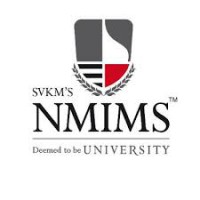
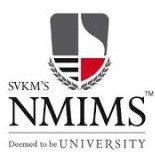
Fixed iframe and margin changes and added spacing for Youtube Live Video

diff --git a/index.html b/index.html
@@ -192,19 +192,35 @@
 
     <!-- End Of About Us Section -->
 
+
+
+
+    <!-- Live Video Section-->
+
+    <div class="container model">
+        <div class="sketchfab-embed-wrapper">
+            <iframe class="responsive-iframe-youtube" src="" title="YouTube video player" frameborder="0" allow="accelerometer; autoplay; clipboard-write; encrypted-media; gyroscope; picture-in-picture" allowfullscreen>
+            </iframe>
+        </div>
+    </div>
+
+
     <!-- Our Research -->
 
-    <section class="our-services-section section-padding" id="service">
+    <section class="our-services-section" id="service">
         <div class="container">
             <!-- Our service Section Title -->
             <h2 class="section-title text-center"> Our Research </h2>
             <!-- Our service  Section Subtitle -->
             <p class="sub-title text-center"> UGV + Image Processing + Aerial Photography</p>
 
-            <div class="row our-services">
+
+
+
+            <div class="row our-services services">
 
                 <!-- Single Service -->
-                <div class="col-md-6 col-lg-5 col-sm-12 col-lg-offset-1 col-xs-12 single-service">
+                <div class=" single-service">
                     <div class="media">
                         <div class="media-left">
                             <img src="img/Hexa1.jpg" class="rounded-circle">
@@ -217,7 +233,7 @@
                     </div>
                 </div>
 
-                <div class="col-md-6 col-lg-5 col-sm-12 col-xs-12 single-service">
+                <div class=" single-service">
                     <div class="media">
                         <div class="media-left">
                             <img src="img/SOLAR.jpg" class="rounded-circle">
@@ -229,7 +245,7 @@
                     </div>
                 </div>
 
-                <div class="col-md-6 col-lg-5 col-sm-12 col-xs-12 single-service" style="left:100px">
+                <div class=" single-service">
                     <div class="media">
                         <div class="media-left">
                             <img src="img/VTOL.jpg" class="rounded-circle">
@@ -250,7 +266,7 @@
                 <!-- to add such cards -->
 
                 <!-- Single Service -->
-                <div class="col-md-6 col-lg-5 col-sm-12 col-xs-12 single-service" style="left:100px">
+                <div class=" single-service">
                     <div class="media">
                         <div class="media-left">
                             <img src="img/SWARM.jpg" class="rounded-circle">
@@ -266,7 +282,7 @@
 
             <div class="container model">
                 <div class="sketchfab-embed-wrapper">
-                    <iframe title="3D Model" src="https://sketchfab.com/models/9152d9a2c7164d1aaebc489230fcd4a7/embed" height="600" width="1200">
+                    <iframe class="responsive-iframe" title="3D Model" src="https://sketchfab.com/models/9152d9a2c7164d1aaebc489230fcd4a7/embed">
                             </iframe>
                     <p style="font-size: 13px; font-weight: normal; margin: 5px; color: #4A4A4A;">
                     </p>
@@ -703,29 +719,29 @@
 
 
 
-        <section class="our-services-section section-padding" id="Associatoin">
+        <section class="section-padding" id="Associatoin">
             <div class="container">
                 <!-- Our service Section Title -->
                 <h2 class="section-title text-center">Our Sponsors</h2>
                 <!-- Up -->
                 <!-- Our service  Section Subtitle -->
                 <div class="row sponsors">
-                    <div style="margin-top: 3.3em;" class="col-md-2 col-sm-6 col-xs-12 p10 sponsor">
+                    <div style="margin-top: 0.5em;" class="col-lg-4">
 
-                        <a href="https://www.nmims.edu/" target="_blank"><img src="img/NMIMS.jpg" class="img-responsive" alt="Reference"></a>
-
-                    </div>
-                    <div class="col-md-2 col-sm-6 col-xs-12 p10 sponsor">
-
-                        <a href="https://www.dynamatics.com/" target="_blank"><img src="img/DYN.png" class="img-responsive" alt="Reference"></a>
+                        <a href="https://www.nmims.edu/" target="_blank"><img src="img/NMIMS.png" width="180" class="img-responsive" alt="Reference"></a>
 
                     </div>
-                    <div class="col-md-2 col-sm-6 col-xs-12 p10 sponsor">
+                    <div class="col-lg-4">
+
+                        <a href="https://www.dynamatics.com/" target="_blank"><img src="img/DYNA.jpg" class="img-responsive" alt="Reference"></a>
+
+                    </div>
+                    <div class="col-lg-4">
 
                         <a href="https://www.solidworks.com/" target="_blank"><img src="img/Solidworks.png" class="img-responsive" alt="Reference"></a>
 
                     </div>
-                    <div style="margin-top: 3em;" class="col-md-2 col-sm-6 col-xs-12 p10 sponsor">
+                    <div class="col-lg-4">
 
                         <a href="https://www.simscale.com/" target="_blank"><img src="img/sim.jpg" class="img-responsive" alt="Reference"></a>
 
@@ -753,13 +769,13 @@
                                         <li>
                                             <h5>
                                                 <img src="img/call.png" height="40" alt="">
-                                                <a href="tel: +91 9834705237">&nbsp;&nbsp; Ashutosh Dhaka:&nbsp;&nbsp;&nbsp;&nbsp;&nbsp;&nbsp;&nbsp;&nbsp;&nbsp;&nbsp; +91 9834705237</a>
+                                                <a href="tel: +91 9834705237">&nbsp;&nbsp; Ashutosh Dhaka:<br/><span style="margin-left: 4em; color: blue;">+91 9834705237</span></a>
                                             </h5>
                                         </li>
                                         <li>
                                             <h5>
                                                 <img src="img/call.png" height="40" alt="">
-                                                <a href="tel: +91 8452808807">&nbsp;&nbsp; Dhruv Mehendiratta:&nbsp;&nbsp; +91 8452808807<a>
+                                                <a href="tel: +91 8452808807">&nbsp;&nbsp; Dhruv Mehendiratta:<br/><span style="margin-left: 4em; color: blue;">+91 8452808807</span><a>
                                             </h5>
                                         </li>
                                         <li>
@@ -792,7 +808,7 @@
                                 </small></li>-->
 
                                     <a href="https://www.google.com/maps/place/21%C2%B017'03.7%22N+74%C2%B050'40.6%22E/@21.2843732,74.8440688,206m/data=!3m2!1e3!4b1!4m9!1m2!2m1!1snmims+shirpur!3m5!1s0x0:0x0!7e2!8m2!3d21.2843715!4d74.8446156" target="=_blank">
-                                        <h4>UAS NMIMS lab,<br/> B-Wing 2<sup>nd</sup> Floor,</br>
+                                        <h4 style="font-family: 'Times New Roman', Times, serif;">UAS NMIMS lab,<br/> B-Wing 2<sup>nd</sup> Floor,</br>
                                             Academic Wing,<br/> Mukesh Patel Technology Park, <br/>Babulde, Near Tapi Bridge, <br/> Shirpur, Maharashtra 425405<br/><br/>
                                             <span style="border: 1px solid black; border-radius: 2px;">View On Google Maps</span>
                                         </h4>

diff --git a/css/style.css b/css/style.css
@@ -310,6 +310,16 @@ ul {
 
 /*custom margin classes*/
 
+.responsive-iframe {
+    position: absolute;
+    top: 0;
+    left: 0;
+    bottom: 0;
+    right: 0;
+    width: 100%;
+    height: 100%;
+}
+
 
 /*margin top*/
 
@@ -803,6 +813,11 @@ ul {
 /* ============================
     Our Services
 =============================== */
+
+.services {
+    display: grid;
+    grid-template-columns: auto;
+}
 
 .single-service .media .fa:before {
     border-radius: 50%;
@@ -1670,7 +1685,30 @@ span.count-description {
     display: flex;
     justify-content: center;
     margin: 2em;
-    padding-right: 6.5em;
+    position: relative;
+    overflow: hidden;
+    width: 100%;
+    padding-top: 56.25%;
+}
+
+.responsive-iframe {
+    position: absolute;
+    top: 0;
+    left: 0;
+    bottom: 0;
+    right: 0;
+    width: 100%;
+    height: 100%;
+}
+
+.responsive-iframe-youtube {
+    position: absolute;
+    top: 20%;
+    left: 20%;
+    bottom: 20%;
+    right: 20%;
+    width: 60%;
+    height: 60%;
 }
 
 .phNo {
@@ -1682,9 +1720,4 @@ span.count-description {
 .sponsors {
     display: flex;
     justify-content: center;
-    align-content: center;
-}
-
-.sponsor {
-    margin: 2em;
 }
